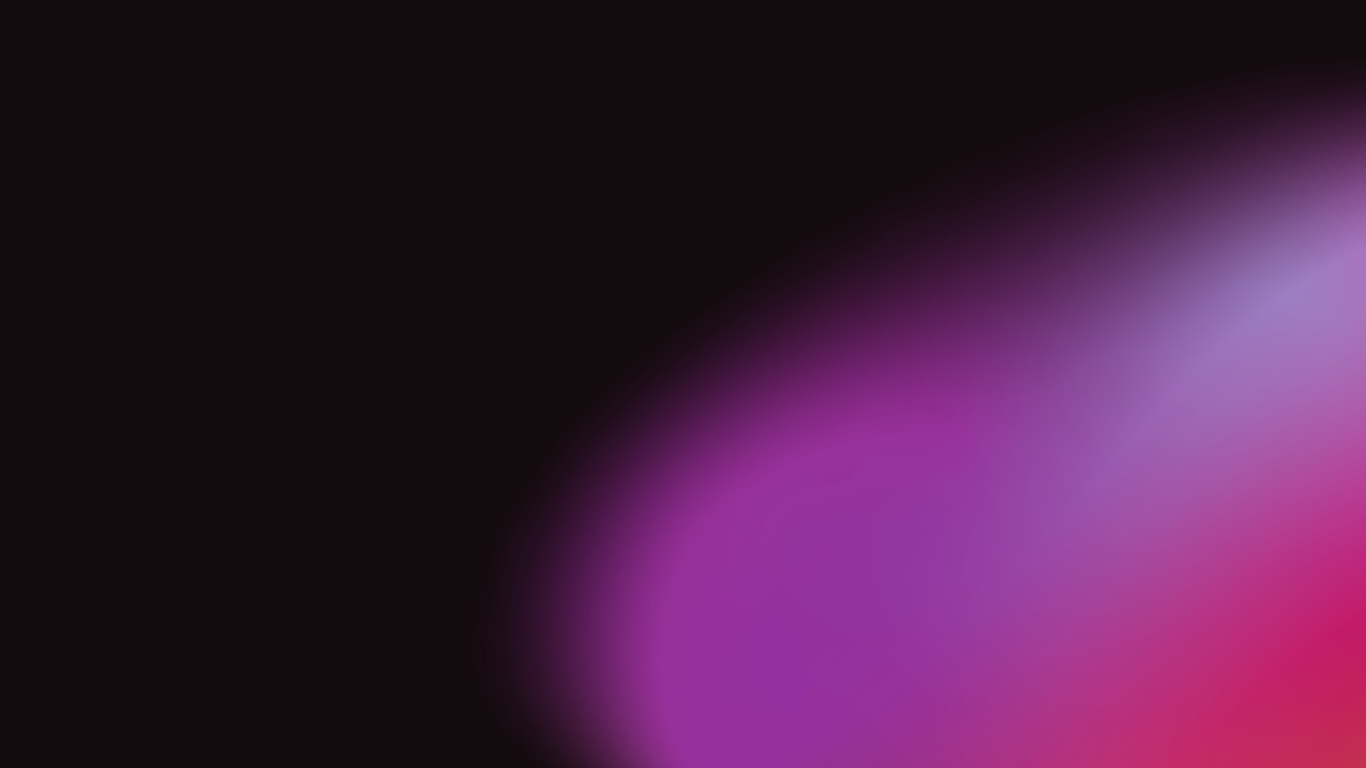
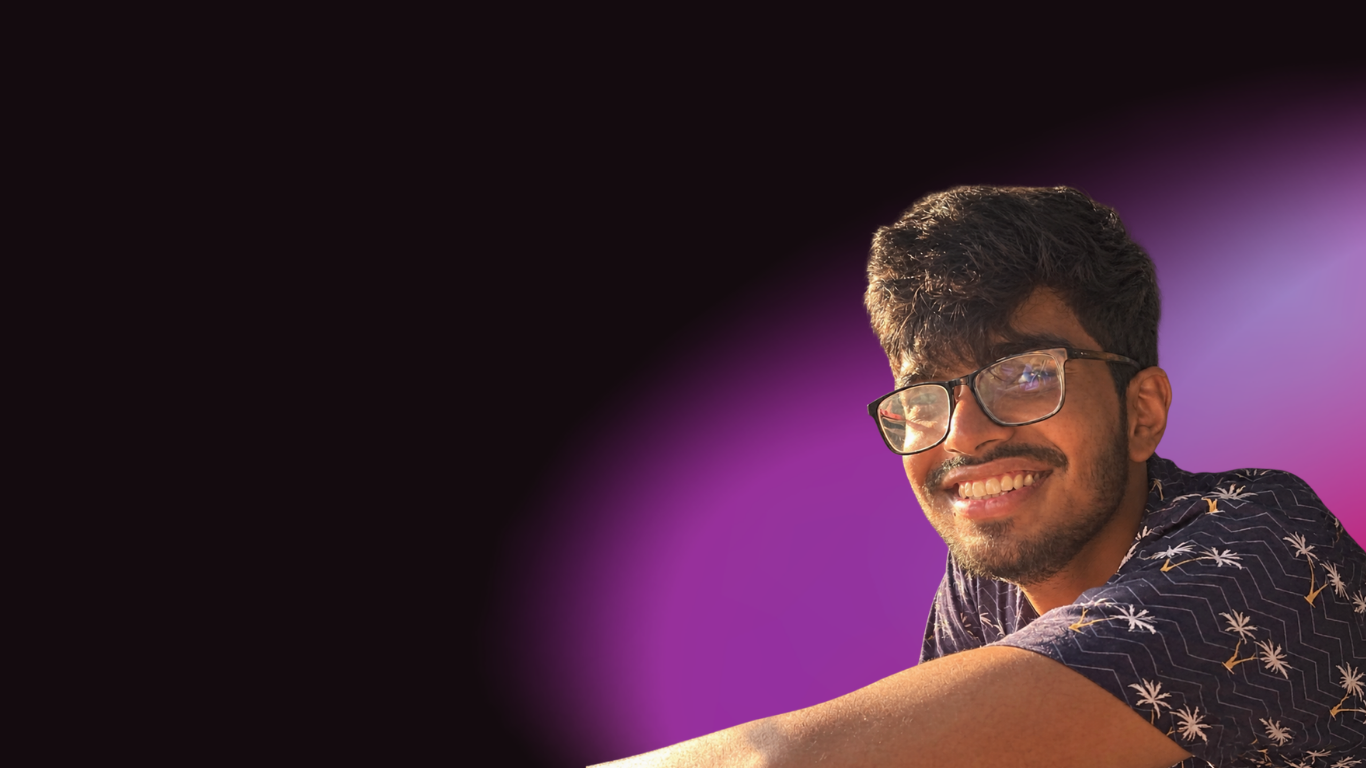
final version

Changed region(s): [[0.4305, 0.2188, 1.0, 1.0]]

diff --git a/style.css b/style.css
@@ -208,10 +208,6 @@ ul{ margin: 0; padding: 0; list-style: none; }
   display: flex;
   justify-content: center;
   align-items: center;
-  transform: translateX(60px); /* nudge right — increase/decrease as needed */
-}
-.photo-mask{
-  transform: translateY(36px); /* moves just the picture down */
 }
 .photo-mask{
   width: min(100%, 520px);
@@ -231,8 +227,8 @@ ul{ margin: 0; padding: 0; list-style: none; }
 }
 .spark{
   position: absolute;
-  right: 6%;
-  bottom: 4%;
+  right: 48%;
+  top: 73%;
   color: var(--ink);
   font-size: 1.4rem;
   opacity: 0.85;

diff --git a/index.html b/index.html
@@ -61,12 +61,7 @@
       <p class="tagline">Solving problems...</p>
     </div>
 
-    <div class="hero-photo">
-      <div class="photo-mask">
-        <img src="resource/profile-pic.png" alt="Portrait of Shivam Shekhar">
-      </div>
-      <span class="spark" aria-hidden="true">&#10022;</span>
-    </div>
+    <span class="spark" aria-hidden="true">&#10022;</span>
   </div>
 </section>
 
